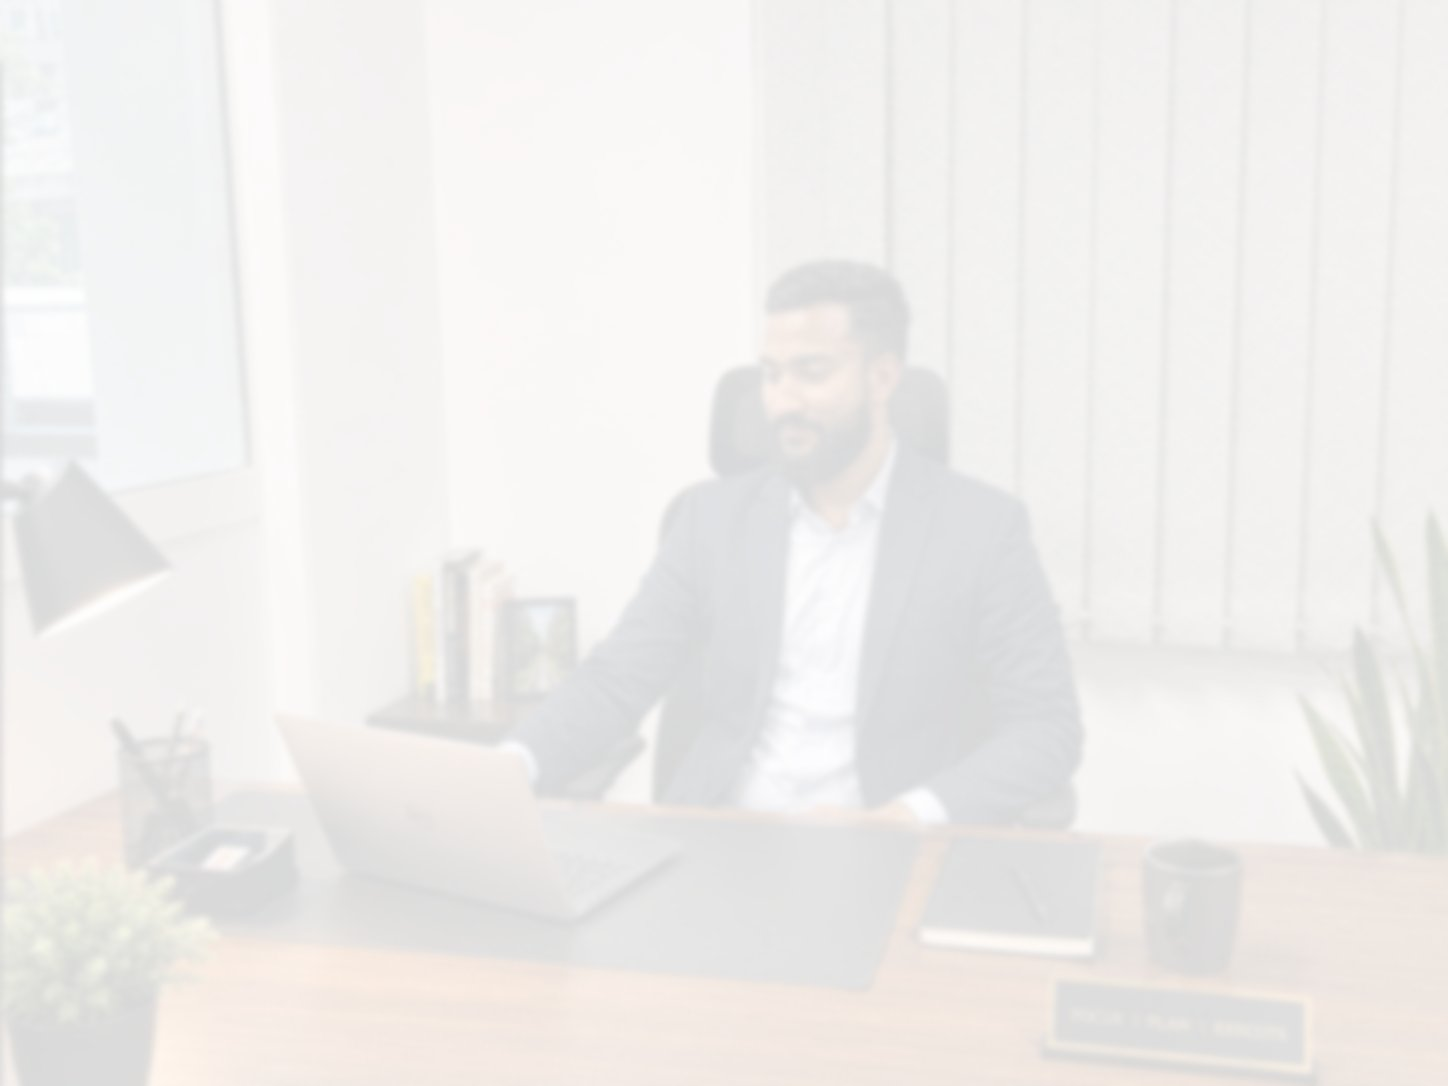
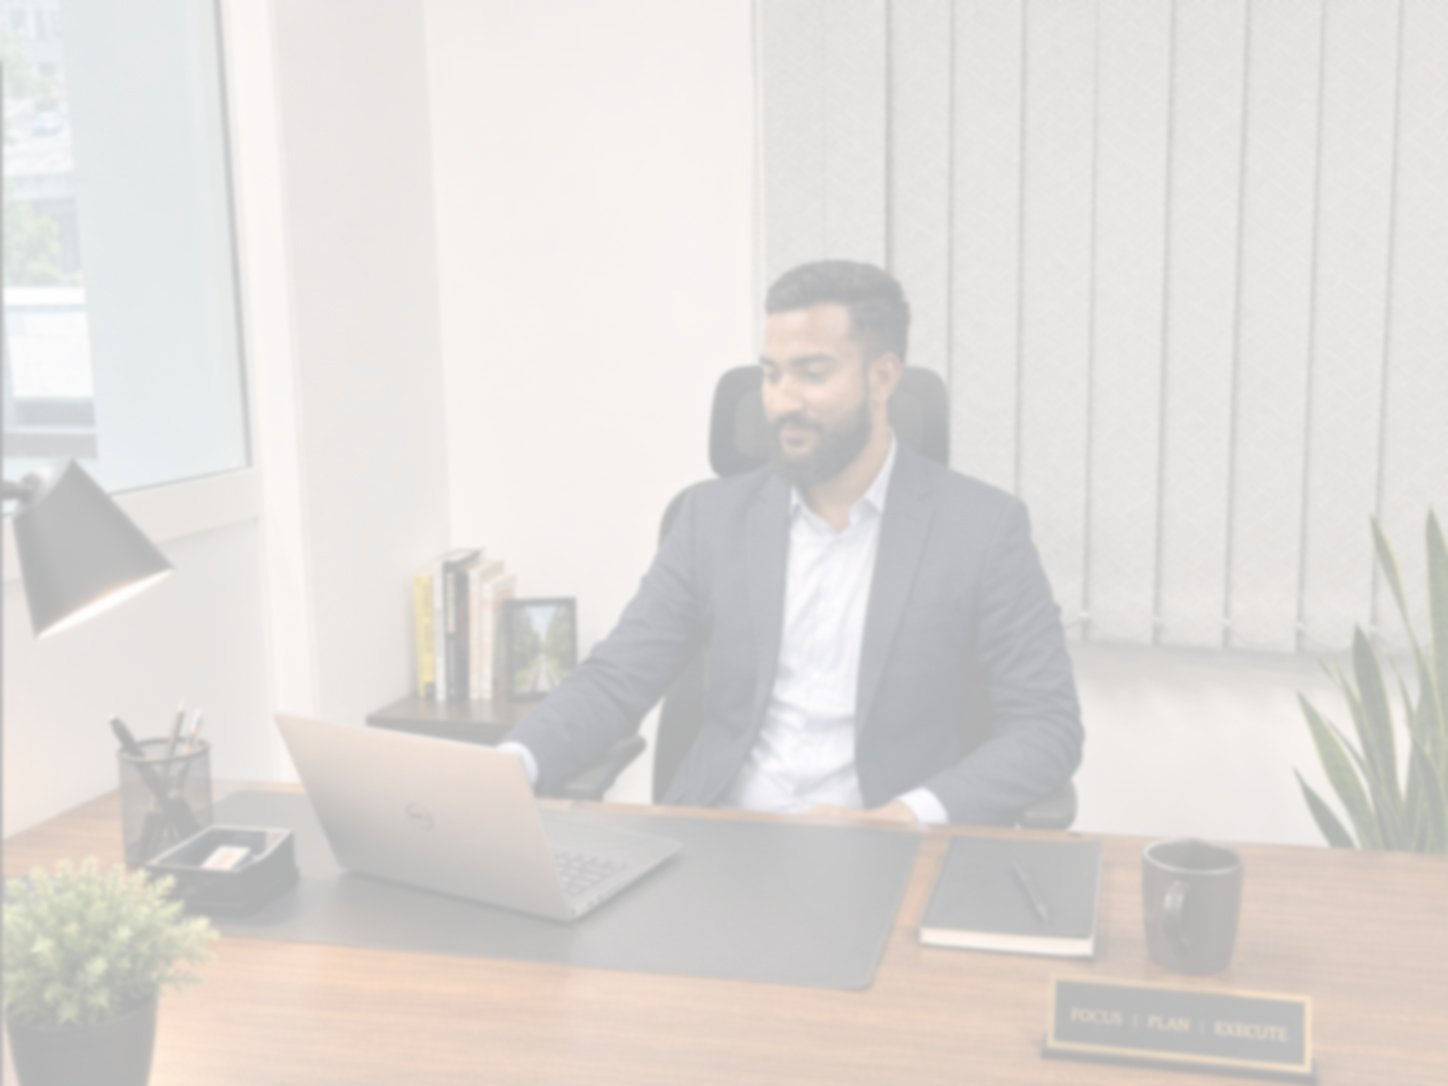
Fix 4 issues: contact bg visibility, footer areas, dead links, area photos
1. CONTACT SECTION BACKGROUND — NOW VISIBLE:
   - Increased faded image opacity from 15% to 30%
   - Reduced white overlay from 85% to 40% (photo is now clearly visible)
   - Like phronesis-car-rental hero — photo visible behind content

2. FOOTER AREAS — MORE CONCISE:
   - Changed from vertical list to 2-column grid
   - Much shorter footer height

3. REMOVED DEAD LINKS:
   - Removed 'Privacy Policy' and 'Terms of Service' links (led nowhere)
   - Footer bottom now only shows copyright + Phronesis credit

4. UNIQUE AREA PHOTOS:
   - All 18 areas now have unique photos (was 9 unique, 9 repeating)
   - Each area has its own distinct Unsplash image

diff --git a/src/components/sections/popular-areas.tsx b/src/components/sections/popular-areas.tsx
@@ -25,7 +25,6 @@ export function PopularAreas({ propertyCounts }: { propertyCounts: Record<string
                 key={area.value}
                 className="relative overflow-hidden card-hover group cursor-pointer p-0 border-0"
                 onClick={() => {
-                  // Update search filter and scroll to search section
                   window.dispatchEvent(new CustomEvent("filter-by-area", { detail: area.value }))
                   document.getElementById("search")?.scrollIntoView({ behavior: "smooth" })
                 }}
@@ -60,6 +59,7 @@ export function PopularAreas({ propertyCounts }: { propertyCounts: Record<string
   )
 }
 
+// Unique photo for each Al Ain area — all different, all UAE-appropriate
 function getAreaImage(area: string): string {
   const images: Record<string, string> = {
     "al-jimi": "https://images.unsplash.com/photo-1564013799919-ab600027ffc6?w=600&q=80",
@@ -71,6 +71,15 @@ function getAreaImage(area: string): string {
     "al-foah": "https://images.unsplash.com/photo-1416339306562-f3d12fefd36f?w=600&q=80",
     "falaj-hazza": "https://images.unsplash.com/photo-1568605114967-8130f3a36994?w=600&q=80",
     "al-yahar": "https://images.unsplash.com/photo-1493809842364-78817add7ffb?w=600&q=80",
+    "al-khibessi": "https://images.unsplash.com/photo-1605276374104-dee2a0ed3cd6?w=600&q=80",
+    "zafrana": "https://images.unsplash.com/photo-1600596542815-ffad4c1539a9?w=600&q=80",
+    "al-sarouj": "https://images.unsplash.com/photo-1600585154340-be6161a56a0c?w=600&q=80",
+    "al-qattara": "https://images.unsplash.com/photo-1600566753190-17f0baa2a6c3?w=600&q=80",
+    "al-muwaiji": "https://images.unsplash.com/photo-1600607687939-ce8a6c25118c?w=600&q=80",
+    "al-nakhla": "https://images.unsplash.com/photo-1500382017468-9049fed747ef?w=600&q=80",
+    "al-ain-oasis": "https://images.unsplash.com/photo-1574943320219-553eb213f72d?w=600&q=80",
+    "al-bateen": "https://images.unsplash.com/photo-1601584115197-04ecc0da31d7?w=600&q=80",
+    "al-mankhool": "https://images.unsplash.com/photo-1600573472556-e636c2acda88?w=600&q=80",
   }
   return images[area] || images["al-jimi"]
 }

diff --git a/src/components/site-footer.tsx b/src/components/site-footer.tsx
@@ -69,15 +69,13 @@ export function SiteFooter() {
           {/* Areas */}
           <div>
             <h3 className="font-semibold text-[#c9a84c] mb-4">{t("common.footer.areas")}</h3>
-            <ul className="space-y-2 text-sm text-white/70">
+            <div className="grid grid-cols-2 gap-x-3 gap-y-1.5 text-sm text-white/70">
               {AL_AIN_AREAS.map(area => (
-                <li key={area.value}>
-                  <a href={`#areas`} className="hover:text-[#c9a84c] transition-colors">
-                    {locale === "ar" ? area.labelAr : area.labelEn}
-                  </a>
-                </li>
+                <a key={area.value} href="#areas" className="hover:text-[#c9a84c] transition-colors truncate">
+                  {locale === "ar" ? area.labelAr : area.labelEn}
+                </a>
               ))}
-            </ul>
+            </div>
           </div>
 
           {/* Contact */}
@@ -128,10 +126,6 @@ export function SiteFooter() {
               />
               <span>Website crafted by Phronesis Studio</span>
             </a>
-            <div className="flex gap-4 text-xs text-white/60">
-              <a href="#" className="hover:text-[#c9a84c] transition-colors">{t("common.footer.privacyPolicy")}</a>
-              <a href="#" className="hover:text-[#c9a84c] transition-colors">{t("common.footer.termsOfService")}</a>
-            </div>
           </div>
         </div>
       </div>

diff --git a/src/components/sections/contact.tsx b/src/components/sections/contact.tsx
@@ -77,7 +77,7 @@ export function ContactSection() {
 
   return (
     <section id="contact" className="py-16 md:py-24 relative overflow-hidden">
-      {/* Faded background photo covering entire section */}
+      {/* Faded background photo covering entire section — visible like phronesis-car-rental hero */}
       <div className="absolute inset-0 z-0">
         <img
           src="/mohammad-mosa-ali-faded.jpg"
@@ -85,8 +85,8 @@ export function ContactSection() {
           aria-hidden="true"
           className="w-full h-full object-cover"
         />
-        {/* White overlay for readability */}
-        <div className="absolute inset-0 bg-background/85" />
+        {/* Light overlay — just enough for text readability, photo stays visible */}
+        <div className="absolute inset-0 bg-background/40" />
       </div>
 
       <div className="container mx-auto px-4 relative z-10">
